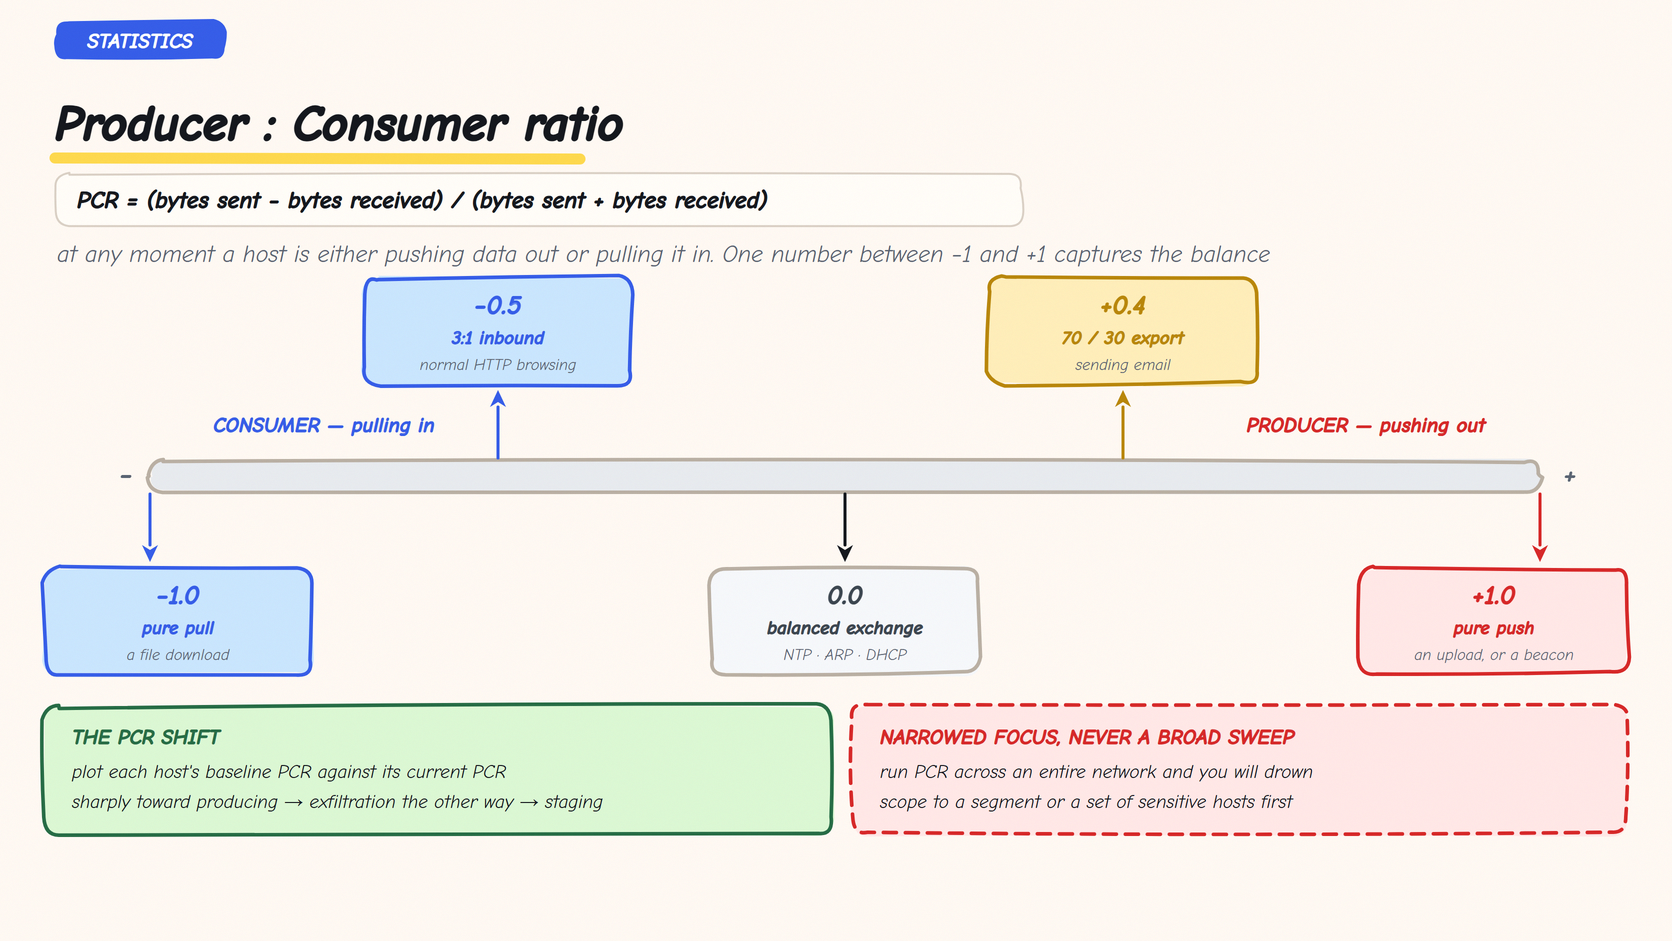
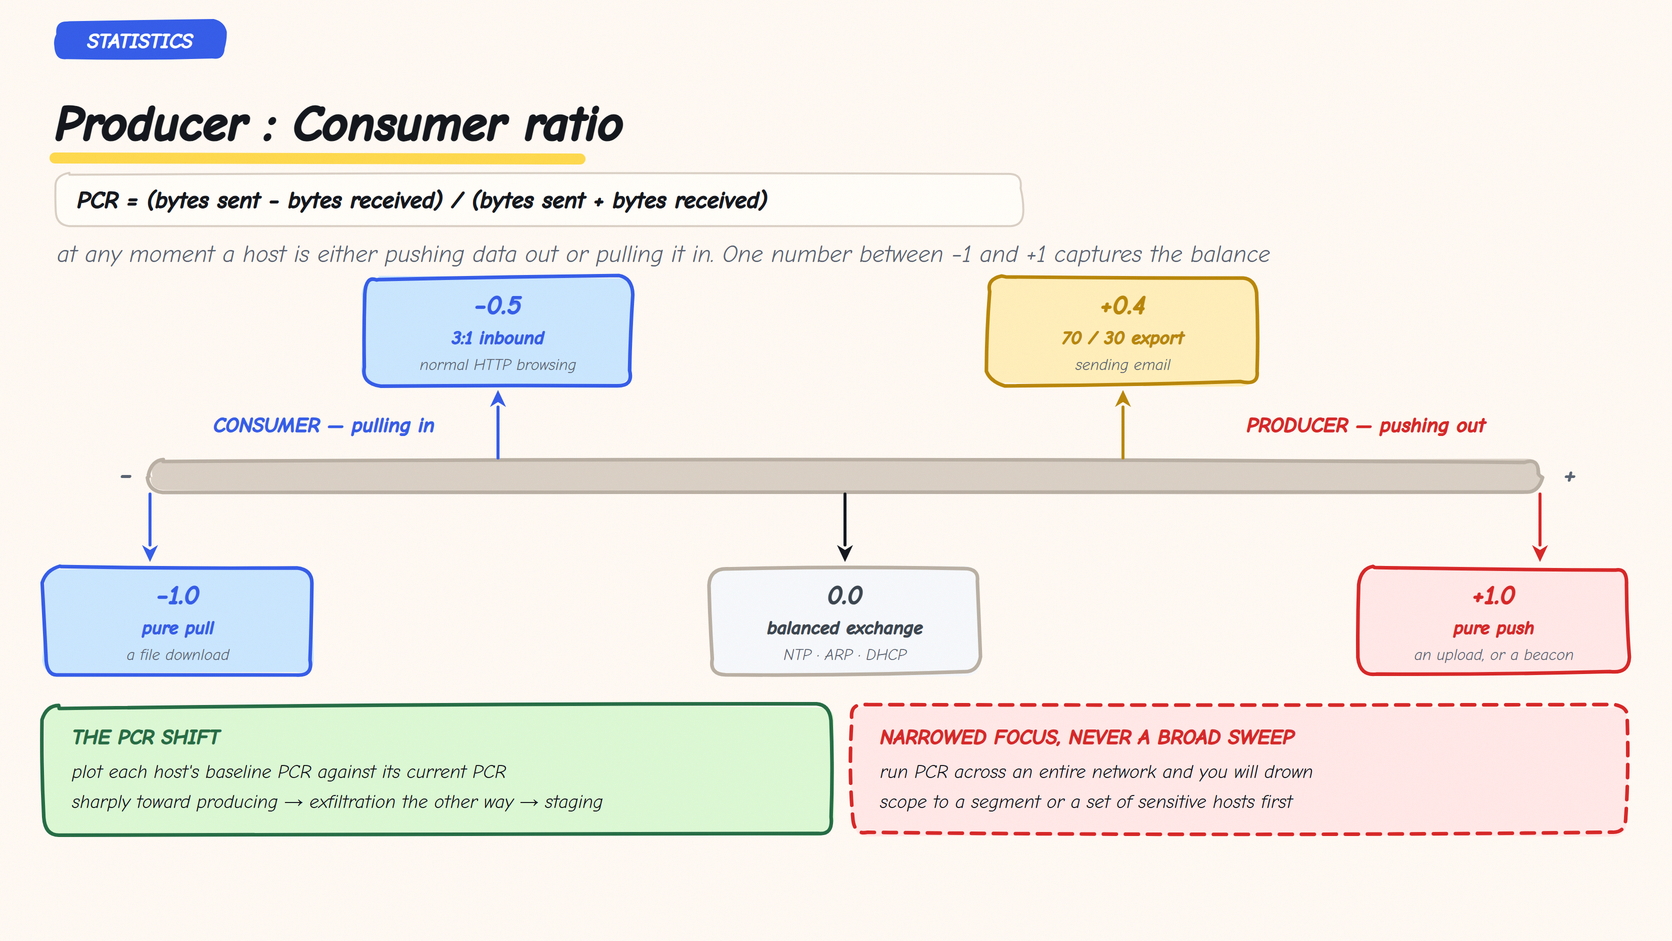
Warm the PCR axis to the mindset palette, and define two implicit classes
The producer:consumer axis track was a hard-coded #E7EAEE, a cool grey left
over from the engineering palette. On the mindset post's warm cream canvas it
read as a cold band across the middle of the diagram. It now takes the theme's
own hairline, so it cannot drift again if the palette moves.

nf-post-card__date and nf-cat-chip__name were used in the markup and defined
in no stylesheet. Both are spans inside already-styled flex parents, so they
inherited correctly and nothing looked wrong - but the site audit flagged ten
occurrences on every run, and an audit that always reports something is an
audit nobody reads. Defining them also stops a date or a two-word category
breaking across two lines in its row.

Checked in a browser at 1280px: the dates, all eight category chips and the
PCR figure in Part 2 render as intended. Whole-site audit is now CLEAN, which
it has not been before.

Changed region(s): [[0.0933, 0.4623, 0.933, 0.5239]]

diff --git a/docs/stylesheets/nightfury_components.css b/docs/stylesheets/nightfury_components.css
@@ -84,6 +84,13 @@
   color: var(--md-default-fg-color--light);
 }
 
+/* The date inherits its font and colour from .nf-post-card__meta above; this
+   rule exists so the class is defined rather than implicit, and so a date
+   never breaks across two lines in the flex meta row. */
+.nf-post-card__date {
+  white-space: nowrap;
+}
+
 .nf-post-card__read::before {
   content: "·";
   margin-right: 0.5rem;
@@ -195,6 +202,12 @@
   font-size: 0.66rem;
   font-weight: 700;
   transition: background 0.26s ease;
+}
+
+/* The name inherits the chip's font and colour; this keeps a two-word
+   category such as "Threat Hunting" on one line inside the pill. */
+.nf-cat-chip__name {
+  white-space: nowrap;
 }
 
 .nf-cat-chip:hover .nf-cat-chip__count {
